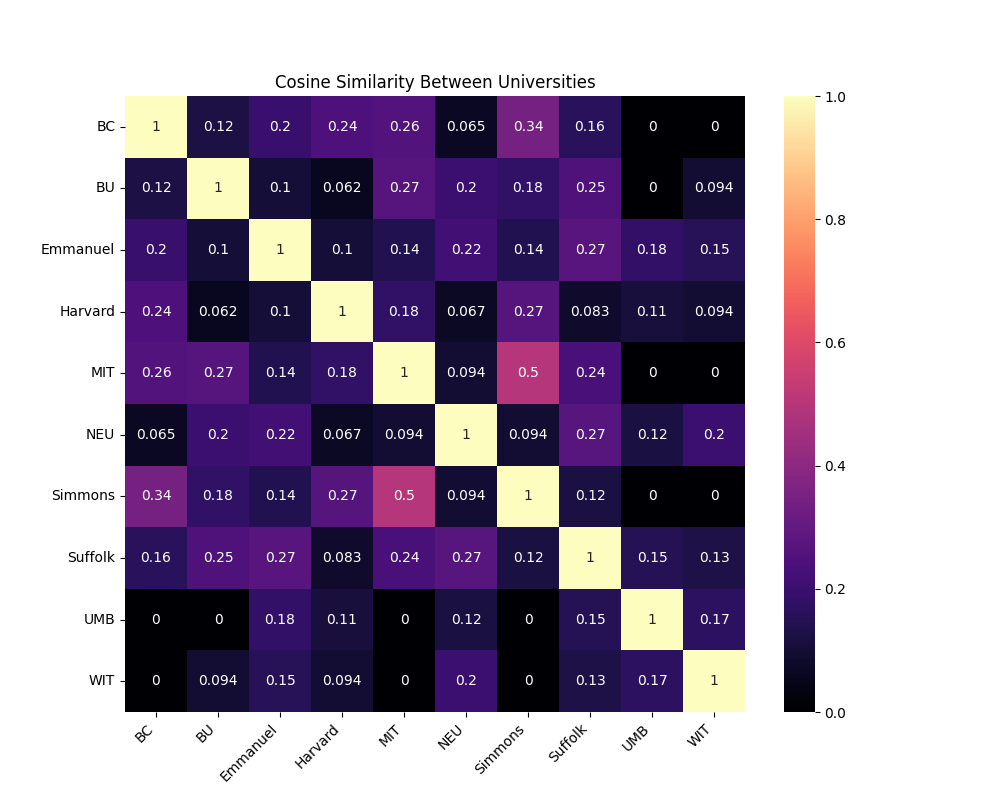
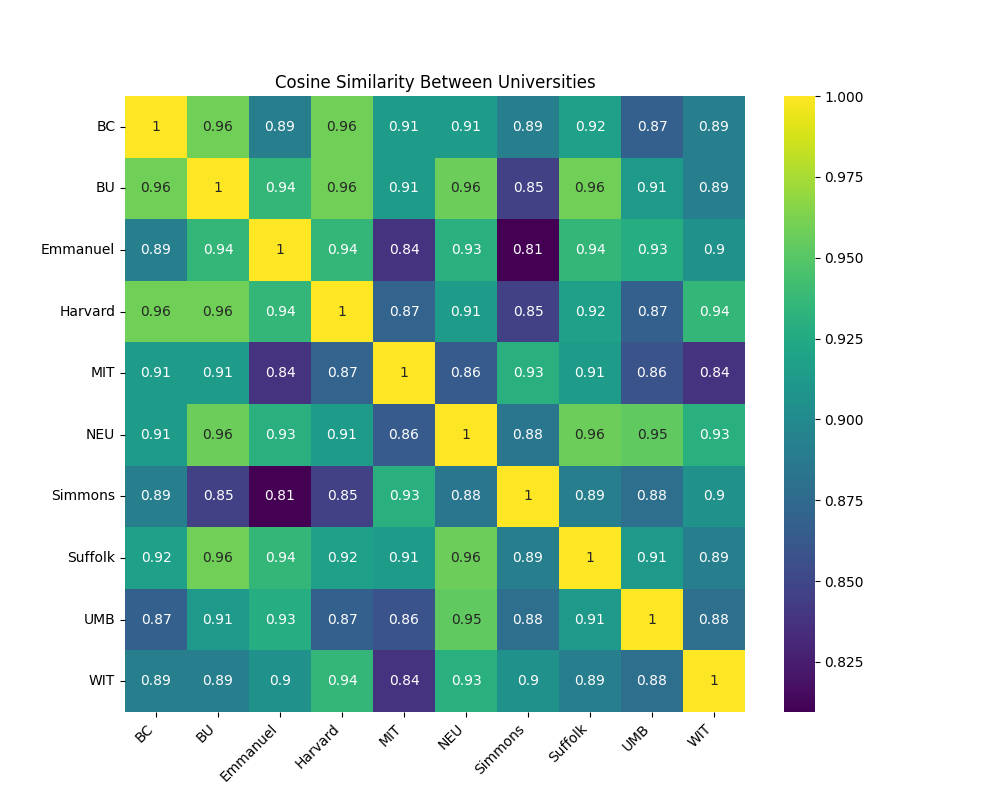
new cosine heatmap

diff --git a/keyphrases/cosine_heatmap.py b/keyphrases/cosine_heatmap.py
@@ -9,18 +9,18 @@ def vectorize(topics, vocabulary):
     return np.array([1 if term in topics else 0 for term in vocabulary])
 
 def compute_cosine_similarities(data: pd.DataFrame) -> None:
-    data["Topic List"] = data["Topic List"].apply(ast.literal_eval)
+   # data["Topic List Revised"] = data["Topic List Revised"].apply(ast.literal_eval)
     
-    vocabulary = list(set(topic for topics in data["Topic List"] for topic in topics))
+    vocabulary = list(set(topic for topics in data["Topic List Revised"] for topic in topics))
 
-    vectors = data["Topic List"].apply(lambda topics: vectorize(topics, vocabulary))
+    vectors = data["Topic List Revised"].apply(lambda topics: vectorize(topics, vocabulary))
 
     # Compute cosine similarity matrix
     vectors = np.stack(vectors.values)  # Convert list of vectors to a matrix
     cosine_sim_matrix = cosine_similarity(vectors)
 
     plt.figure(figsize=(10, 8))
-    sns.heatmap(cosine_sim_matrix, annot=True, cmap="magma", xticklabels=data["University Abbreviation"], yticklabels=data["University Abbreviation"])
+    sns.heatmap(cosine_sim_matrix, annot=True, cmap="viridis", xticklabels=data["University Abbreviation"], yticklabels=data["University Abbreviation"])
 
     plt.title("Cosine Similarity Between Universities")
     plt.xticks(rotation=45, ha="right")
@@ -30,7 +30,7 @@ def compute_cosine_similarities(data: pd.DataFrame) -> None:
 
 
 def main():
-    data = pd.read_csv('keyphrases/data/college_topics.csv')
+    data = pd.read_csv('keyphrases/data/college_topics_revised.csv')
     data["University Abbreviation"] = [
         "BC", "BU", "Emmanuel", "Harvard", "MIT", "NEU", 
         "Simmons", "Suffolk", "UMB", "WIT"
